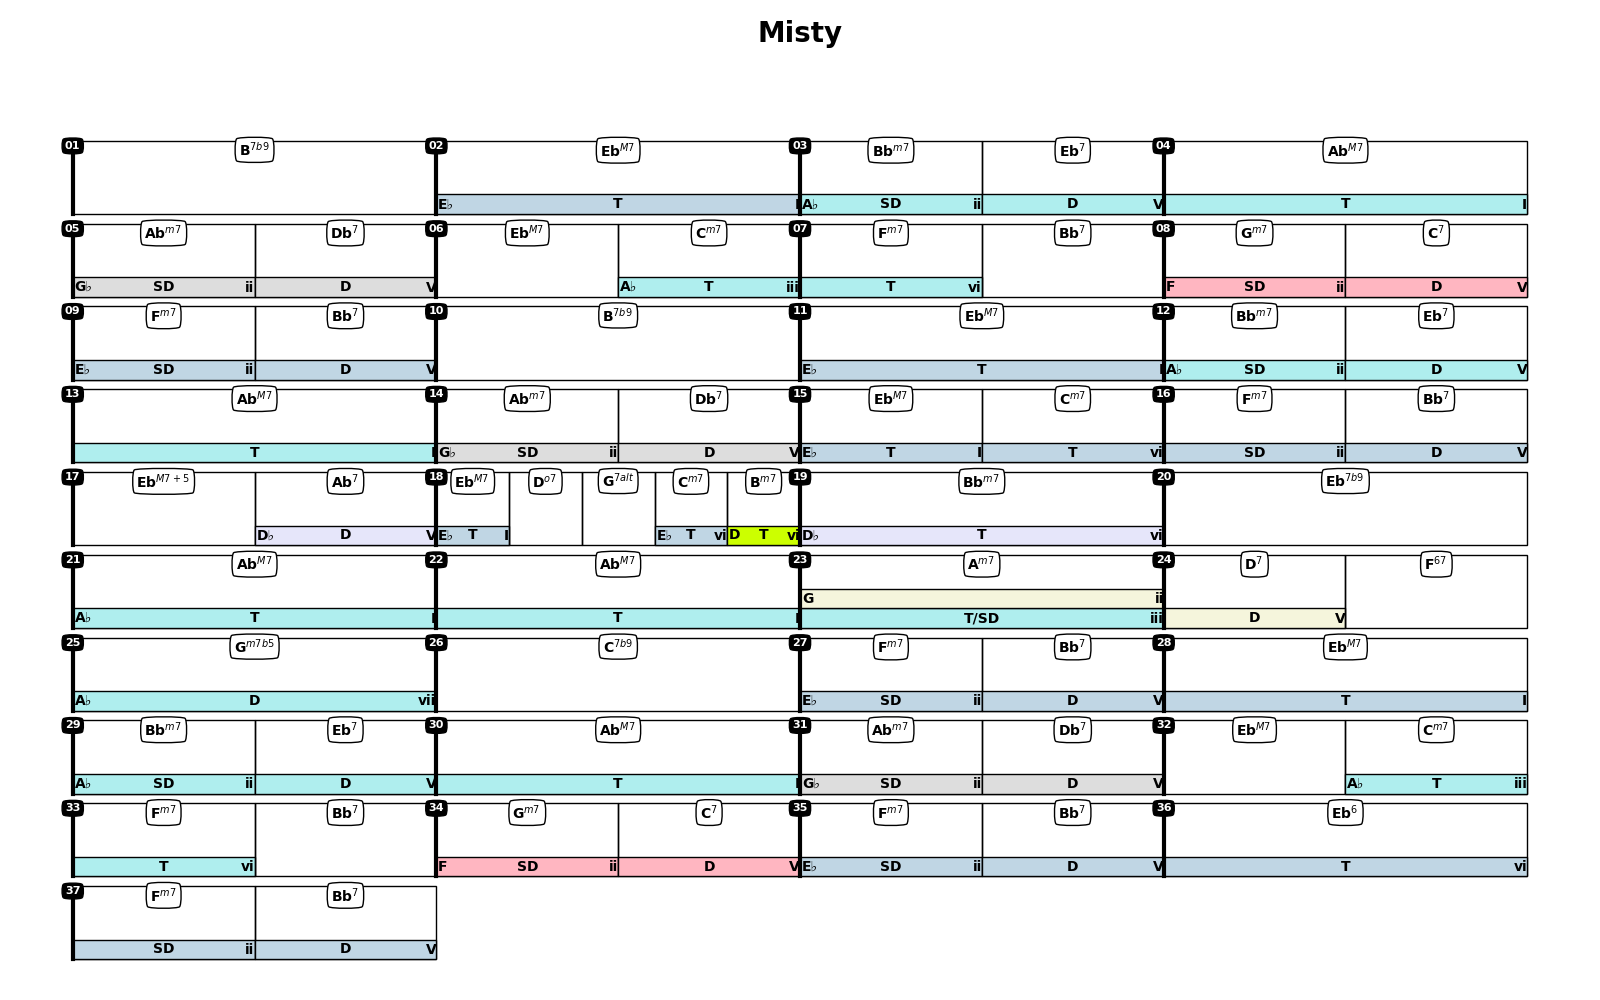
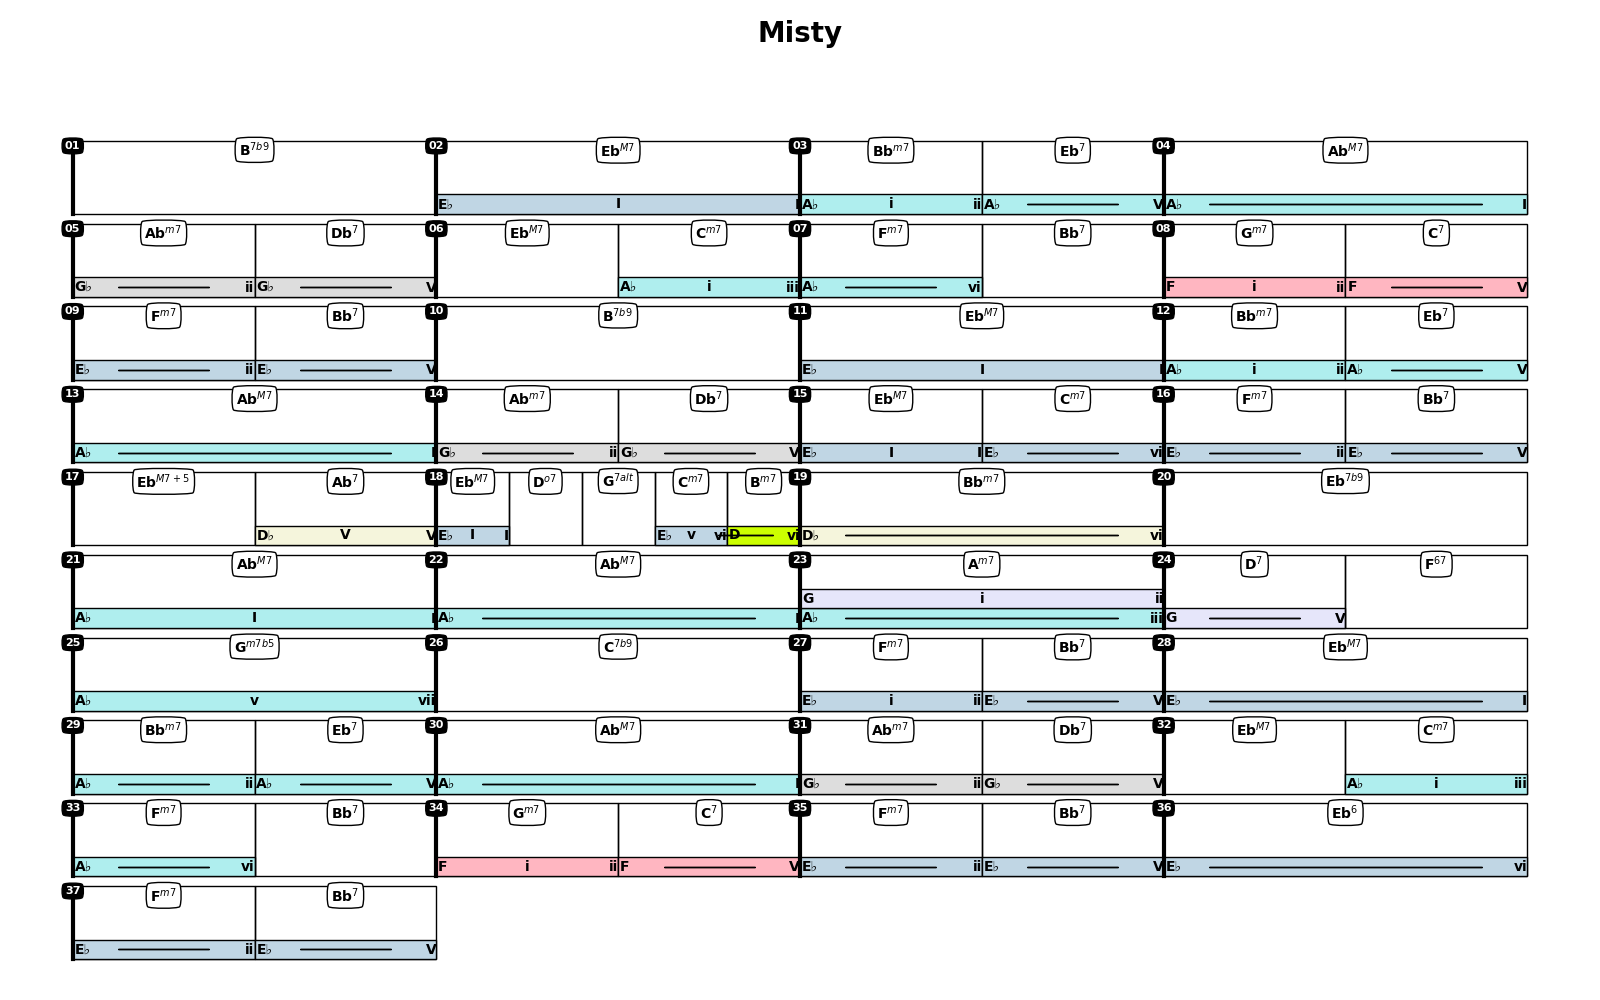
moved plot configs into prg.cfg

diff --git a/jazzElements/progression.py b/jazzElements/progression.py
@@ -4,7 +4,7 @@ import pandas as pd
 from matplotlib import patches
 from matplotlib.pyplot import *
 
-from jazzElements.annotate import annGraph, annStandard
+from jazzElements.annotate import annGraph
 from jazzElements.chord import Chord
 from jazzElements.note import Note
 from jazzElements.scale import Scale
@@ -49,7 +49,18 @@ progressions = \
 class Progression:
     def __init__(self, prg, name=''):
         # todo: chords are now of equal duration within a bar.
-        self.beatsPerBar = 4
+
+        self.cfg = \
+            {
+                'colors': ['#c0d6e4', '#afeeee', '#dddddd', '#ffb6c1', '#e6e6fa', '#f5f5dc', '#ccff00', '#31698a',
+                           '#f08080', '#ffa500', '#008080'] * 2,
+                'barsPerRow': 4,
+                'sepx': 0,
+                'sepy': 20,
+                'beatsPerBar':4,
+
+            }
+
         self.name = name
 
         if '|' not in prg:
@@ -61,15 +72,17 @@ class Progression:
             if len(bar):
                 for c in bar.split(','):
                     if c == '%':
-                        chr = [bi, chords[-1][1], self.beatsPerBar / len(bar.split(','))]
+                        chr = [bi, chords[-1][1], self.cfg['beatsPerBar'] / len(bar.split(','))]
 
                     else:
-                        chr = [bi, c, self.beatsPerBar / len(bar.split(','))]
+                        chr = [bi, c, self.cfg['beatsPerBar'] / len(bar.split(','))]
                     chords.append(chr)
 
         self.chords = pd.DataFrame(chords, columns=['bar', 'chr', 'beats'])
         self.nbBars = self.chords['bar'].max() + 1
         self.ann = None
+
+
 
     def findScale(self, chr, degree):
         # todo: There must be a better way
@@ -116,7 +129,7 @@ class Progression:
                 for si, s in enumerate(ann['sca']):
                     if len(s):
                         bgd = patches.Rectangle((xChr, yChr + si * cadh), wChr, cadh, fill=True, clip_on=False,
-                                                color=self.scaleColors[s], alpha=1, ec='k')
+                                                color=self.cfg['scaleColors'][s], alpha=1, ec='k')
                         ax.add_patch(bgd)
 
                         if chr == 0 or s not in self.chords.loc[chr - 1].get('sca', []):
@@ -174,20 +187,20 @@ class Progression:
 
     def plotBar(self, b, pos, plotType='fn'):
         xBar, yBar, wBar, hBar = pos
-        wBeat = (wBar - self.sepx * (len(self.chords['bar'] == b) - 1)) / self.beatsPerBar
+        wBeat = (wBar - self.cfg['sepx'] * (len(self.chords['bar'] == b) - 1)) / self.cfg['beatsPerBar']
         nBeats = 0
         ax = gca()
         for ic, c in self.chords[self.chords['bar'] == b].iterrows():
-            posChr = [xBar + wBeat * nBeats + self.sepx * (ic), yBar, c['beats'] * wBeat, hBar]
+            posChr = [xBar + wBeat * nBeats + self.cfg['sepx'] * (ic), yBar, c['beats'] * wBeat, hBar]
             self.plotChord(ax, ic, posChr, plotType=plotType)
             nBeats += c['beats']
-            if nBeats >= self.barsPerRow * self.beatsPerBar:
+            if nBeats >= self.cfg['barsPerRow'] * self.cfg['beatsPerBar']:
                 nBeats = 0
-                yBar -= (hBar + self.sepy)
+                yBar -= (hBar + self.cfg['sepy'])
 
         # Plot Bar
-        plot([xBar - self.sepx / 2, xBar - self.sepx / 2], [yBar, yBar + hBar], color='k', lw=3)
-        text(xBar - self.sepx / 2, yBar + hBar, '{:02}'.format(b + 1), color='w', va='top', ha='center', fontSize=8,
+        plot([xBar - self.cfg['sepx'] / 2, xBar - self.cfg['sepx'] / 2], [yBar, yBar + hBar], color='k', lw=3)
+        text(xBar - self.cfg['sepx'] / 2, yBar + hBar, '{:02}'.format(b + 1), color='w', va='top', ha='center', fontSize=8,
              weight=1000,
              bbox=dict(boxstyle='round4', fc='k'))
 
@@ -202,21 +215,19 @@ class Progression:
 
     def plot(self, plotType='fn', barsPerRow=4):
         # todo: Scaling issues
-        c = ['#c0d6e4', '#afeeee', '#dddddd', '#ffb6c1', '#e6e6fa', '#f5f5dc', '#ccff00', '#31698a', '#f08080',
-             '#ffa500', '#008080'] * 2
-        self.scaleColors = {x[0]: c[i] for i, x in enumerate(self.countKeys())}
+        self.cfg['scaleColors'] = {x[0]: self.cfg['colors'][i] for i, x in enumerate(self.countKeys())}
 
-        self.barsPerRow = barsPerRow
-        nbRows = np.ceil(self.nbBars / self.barsPerRow)
+        nbRows = np.ceil(self.nbBars / self.cfg['barsPerRow'])
         wBar, hBar = 400, 150
         h = nbRows * hBar
-        x, y, self.sepx, self.sepy = [0, 0, 0, 20]
+        x, y = [0, 0]
         fig = figure(figsize=(16, nbRows))
         fig.subplots_adjust(left=0, right=1, bottom=0, top=.9)
 
         for b in self.chords['bar'].unique():
-            posBar = [x + (b % self.barsPerRow) * (wBar + self.sepx),
-                      y + h - hBar * (1 + (b // self.barsPerRow)) - self.sepy * ((b // self.barsPerRow)), wBar, hBar]
+            posBar = [x + (b % self.cfg['barsPerRow']) * (wBar + self.cfg['sepy']),
+                      y + h - hBar * (1 + (b // self.cfg['barsPerRow'])) - self.cfg['sepy'] * (
+                      (b // self.cfg['barsPerRow'])), wBar, hBar]
             self.plotBar(b, posBar, plotType=plotType)
 
         # axis('tight')
@@ -318,11 +329,10 @@ class Progression:
     def annotate(self, method='graph', reduce=True):
         if method == 'graph':
             self.ann = annGraph(self.chords)
+        else:
+            warnings.warn('not implemented')
 
-        elif method == 'std':
-            self.ann = annStandard(self.chords)
-
-        self.ann.annotate(reduce=True)
+        self.ann.annotate(reduce=reduce)
 
         """
         Harmonic Analysis of the chord progression
@@ -351,10 +361,7 @@ class Progression:
         """
 
 
-
-
-prg = Progression('Dm7|G7|CM7|Dm7|D♭7|CM')
+prg=Progression('Misty')
 prg.annotate()
-prg.print()
-
+prg.plot()
 

diff --git a/jazzElements/scale.py b/jazzElements/scale.py
@@ -8,6 +8,7 @@ from jazzElements.chord import Chord
 from jazzElements.note import Note
 from jazzElements.viz import plotNotes
 
+
 class Scale():
     modesLst = ['Ion', 'Dor', 'Phr', 'Lyd', 'Mix', 'Aeo', 'Loc']
     modesIntervals = {
@@ -18,7 +19,12 @@ class Scale():
         'Mix': [2, 2, 1, 2, 2, 1, 2],
         'Aeo': [2, 1, 2, 2, 1, 2, 2],
         'Loc': [1, 2, 2, 1, 2, 2, 2],
-        'Chr': [1, 1, 1, 1, 1, 1, 1, 1, 1, 1, 1, 1]
+        'Chr': [1, 1, 1, 1, 1, 1, 1, 1, 1, 1, 1, 1],
+        'natMin': [2, 1, 2, 2, 1, 2, 2], # (Aeolian)
+        'harMin': [2, 1, 2, 2, 1, 3, 1],
+        'melMinUp': [2, 1, 2, 2, 2, 2, 1],
+        'melMinDown': [2, 1, 2, 2, 1, 2, 2],
+
     }
     chrDegLst = ['I', 'II', 'III', 'IV', 'V', 'VI', 'VII']
     chrSubLst = \

diff --git a/scripts/mkFigs.py b/scripts/mkFigs.py
@@ -9,7 +9,7 @@ def plotKnownProgressions(plotType='fn',tgt='d:\\Code\\jazzElements\\img\\'):
         plotType: 'fn' | 'kbd'
     """
     for song in progressions:
-        for method in ['graph','std']:
+        for method in ['graph']:
             print('== '+song+' == ('+method+')')
             prg = Progression(song)
             prg.annotate(method=method,reduce=True)

diff --git a/jazzElements/annotate.py b/jazzElements/annotate.py
@@ -5,8 +5,6 @@ from jazzElements.scale import Scale
 
 
 class CadenceGraph():
-    # todo: add T, SD, D
-    ##
     fnLst = {
         'I': [(1, 'M'), (1, 'M7'), (1, 'M9'), (1, 'M6/9'), (1, 'M')],
         'ii': [(2, 'm'), (2, 'm7'), (2, 'm9'), (4, 'M6')],
